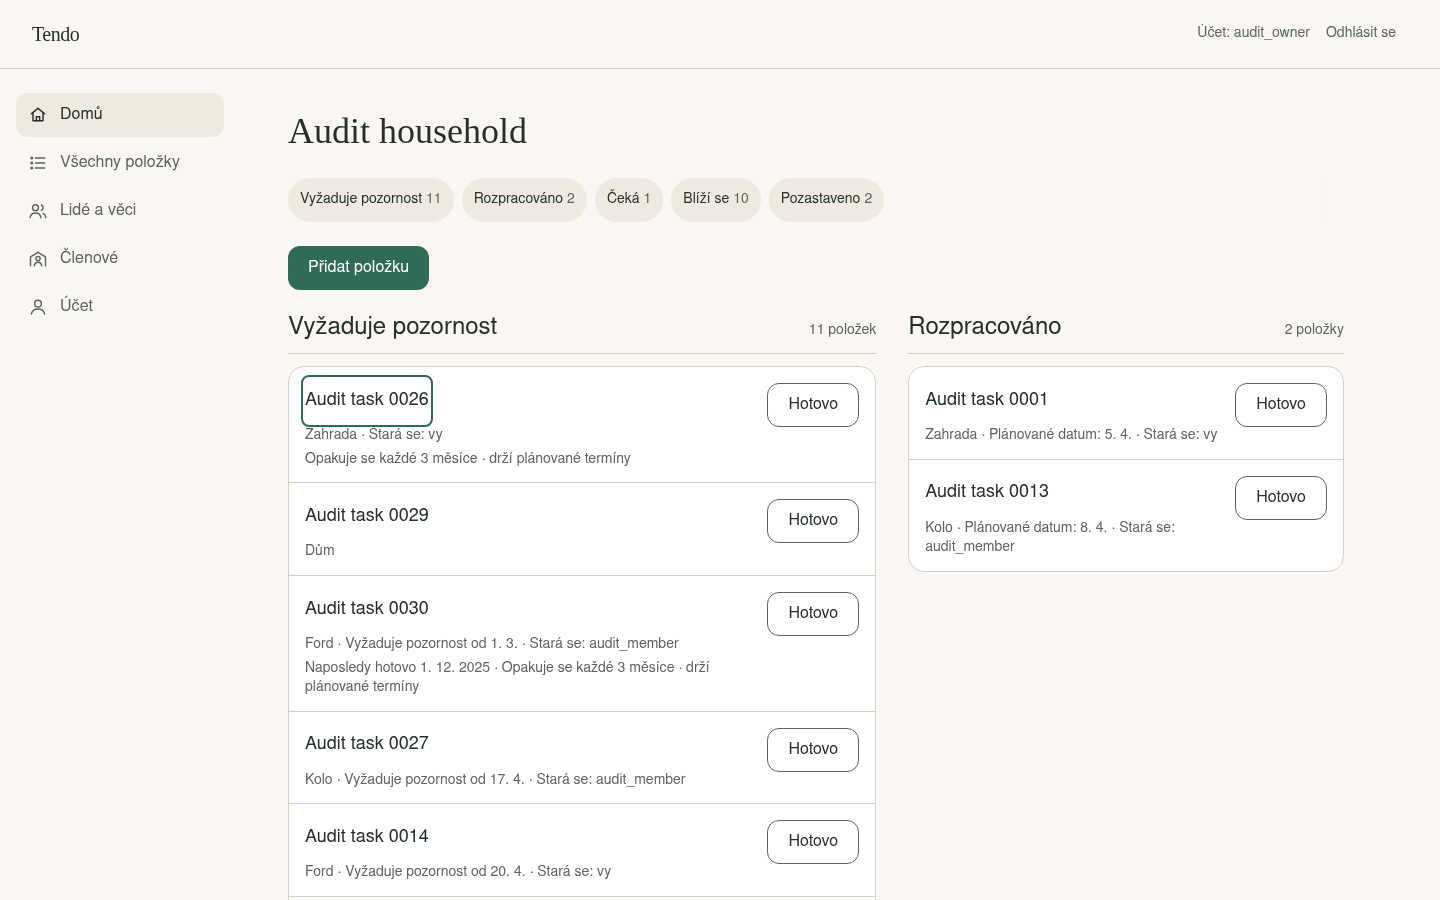
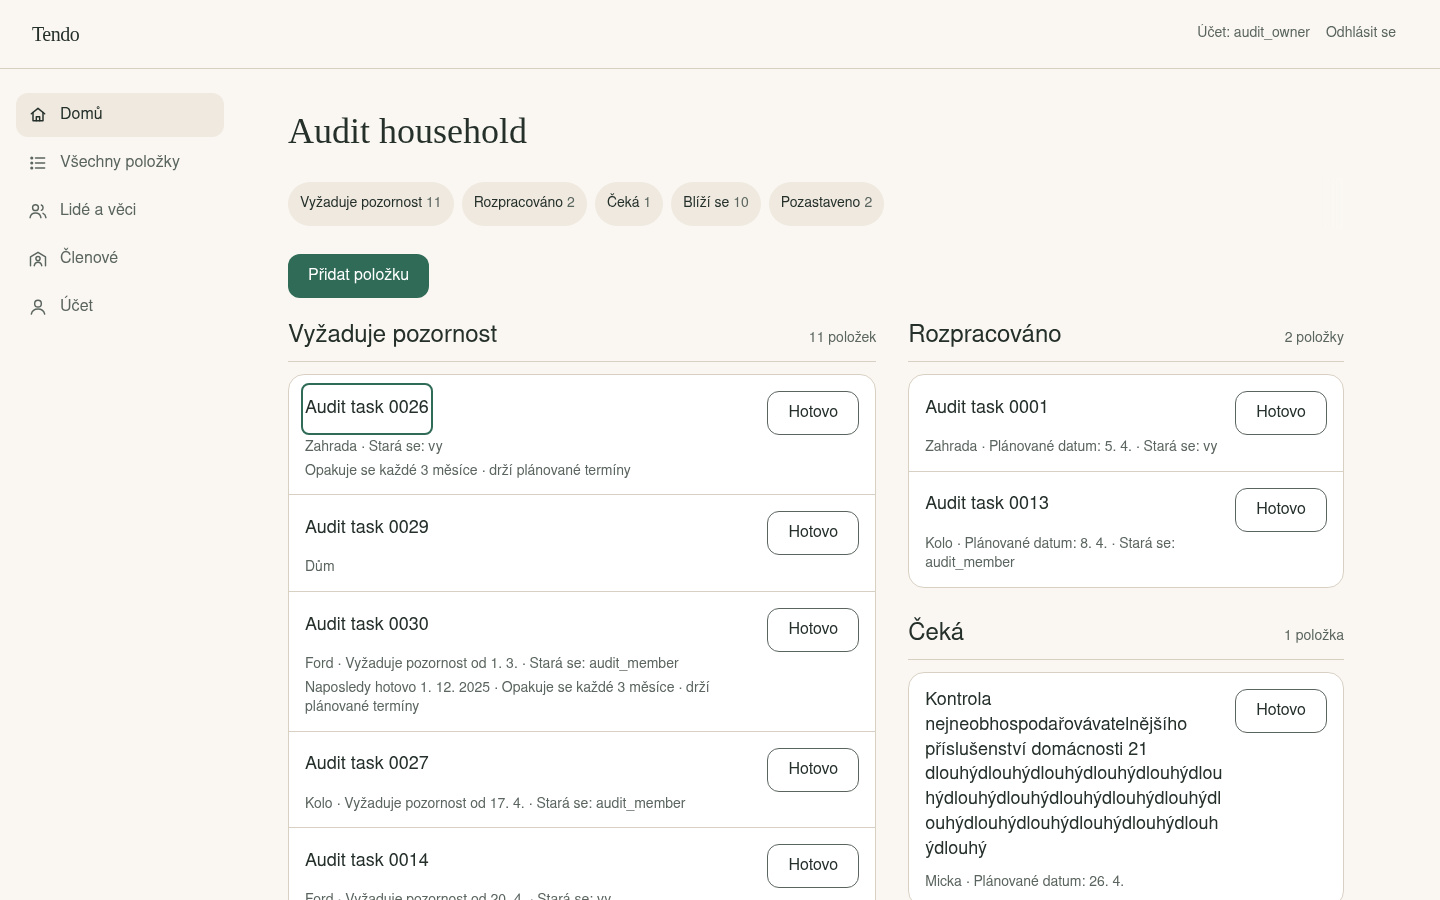
fix(home): unclipped overview focus spacing; capture pristine overview; refresh after captures from HEAD

diff --git a/frontend/e2e/ux-audit.spec.ts b/frontend/e2e/ux-audit.spec.ts
@@ -38,7 +38,8 @@ async function capture(page: Page, path: string, fullPage = true, mask: Locator[
   if (overflow.overflow) routeOverflowElements[file] = overflow.offenders;
   const resultSelector = file.startsWith('home-30-') ? 'main li[data-item-id] a' : file.startsWith('audit-all-items-') ? 'main li[data-item-id] a' : undefined;
   routeMetrics[file] = await measureCapture(page, resultSelector);
-  const overview = page.locator('main nav[aria-label="Group overview"]');
+  // measureCapture tabs through the overview; capture it in its pristine, unscrolled state.
+  const overview = page.locator(`main nav[aria-label="${en['items.group.overview']}"], main nav[aria-label="${cs['items.group.overview']}"]`);
   if (await overview.count()) await overview.evaluate((nav) => { nav.scrollLeft = 0; });
   await page.screenshot({ path, fullPage, mask });
 }

diff --git a/frontend/src/features/items/HomeOverview.tsx b/frontend/src/features/items/HomeOverview.tsx
@@ -108,7 +108,7 @@ export function HomeOverviewNav({ summary, groupData, sectionHeadingRefs }: Over
     aria-label={t('items.group.overview')}
     className={[
       'relative flex w-full min-w-0 snap-x snap-mandatory gap-2 overflow-x-auto overscroll-x-contain',
-      'py-1 -my-1 scroll-py-1 [scrollbar-width:none] [&::-webkit-scrollbar]:hidden',
+      'py-1 scroll-py-1 [scrollbar-width:none] [&::-webkit-scrollbar]:hidden',
       'after:pointer-events-none after:absolute after:inset-y-0 after:right-0 after:w-6',
       'after:bg-gradient-to-l after:from-paper after:to-transparent',
     ].join(' ')}

diff --git a/docs/design/v3-home/CAPTURES.md b/docs/design/v3-home/CAPTURES.md
@@ -22,7 +22,7 @@ TENDO_UX_AUDIT_DIR=/tmp/opencode/v308-complete-captures bash scripts/dev-exec.sh
 | `before/home-30-cs-320-fold.png`, `390-fold.png`, `1440-fold.png` | matching files | Czech wrapping |
 | `before/home-500-en-390-fold.png` | `after/home-500-en-390-fold.png` | Large stage |
 | `before/home-1200-en-390-fold.png`, `1440-fold.png` | `after/` matching files | 1,000+ stage / cap navigation |
-| — | `after/home-1200-en-390-forced-dark.png`, `1440-expanded-forced-dark.png` | Explicit dark-token readiness; 1440 is captured after expanding groups to show the large-scale balance |
+| — | `after/home-1200-en-390-forced-dark.png`, `1440-forced-dark.png`, `1440-expanded-forced-dark.png` | Explicit dark-token readiness; 1440 is captured after expanding groups to show the two-column rule at scale |
 | `before/audit-home-server-error-en-390.png` | `after/` same | Error/retry state |
 | `before/home-30-cs-390.png` | `after/` same | Long Czech title/data |
 
